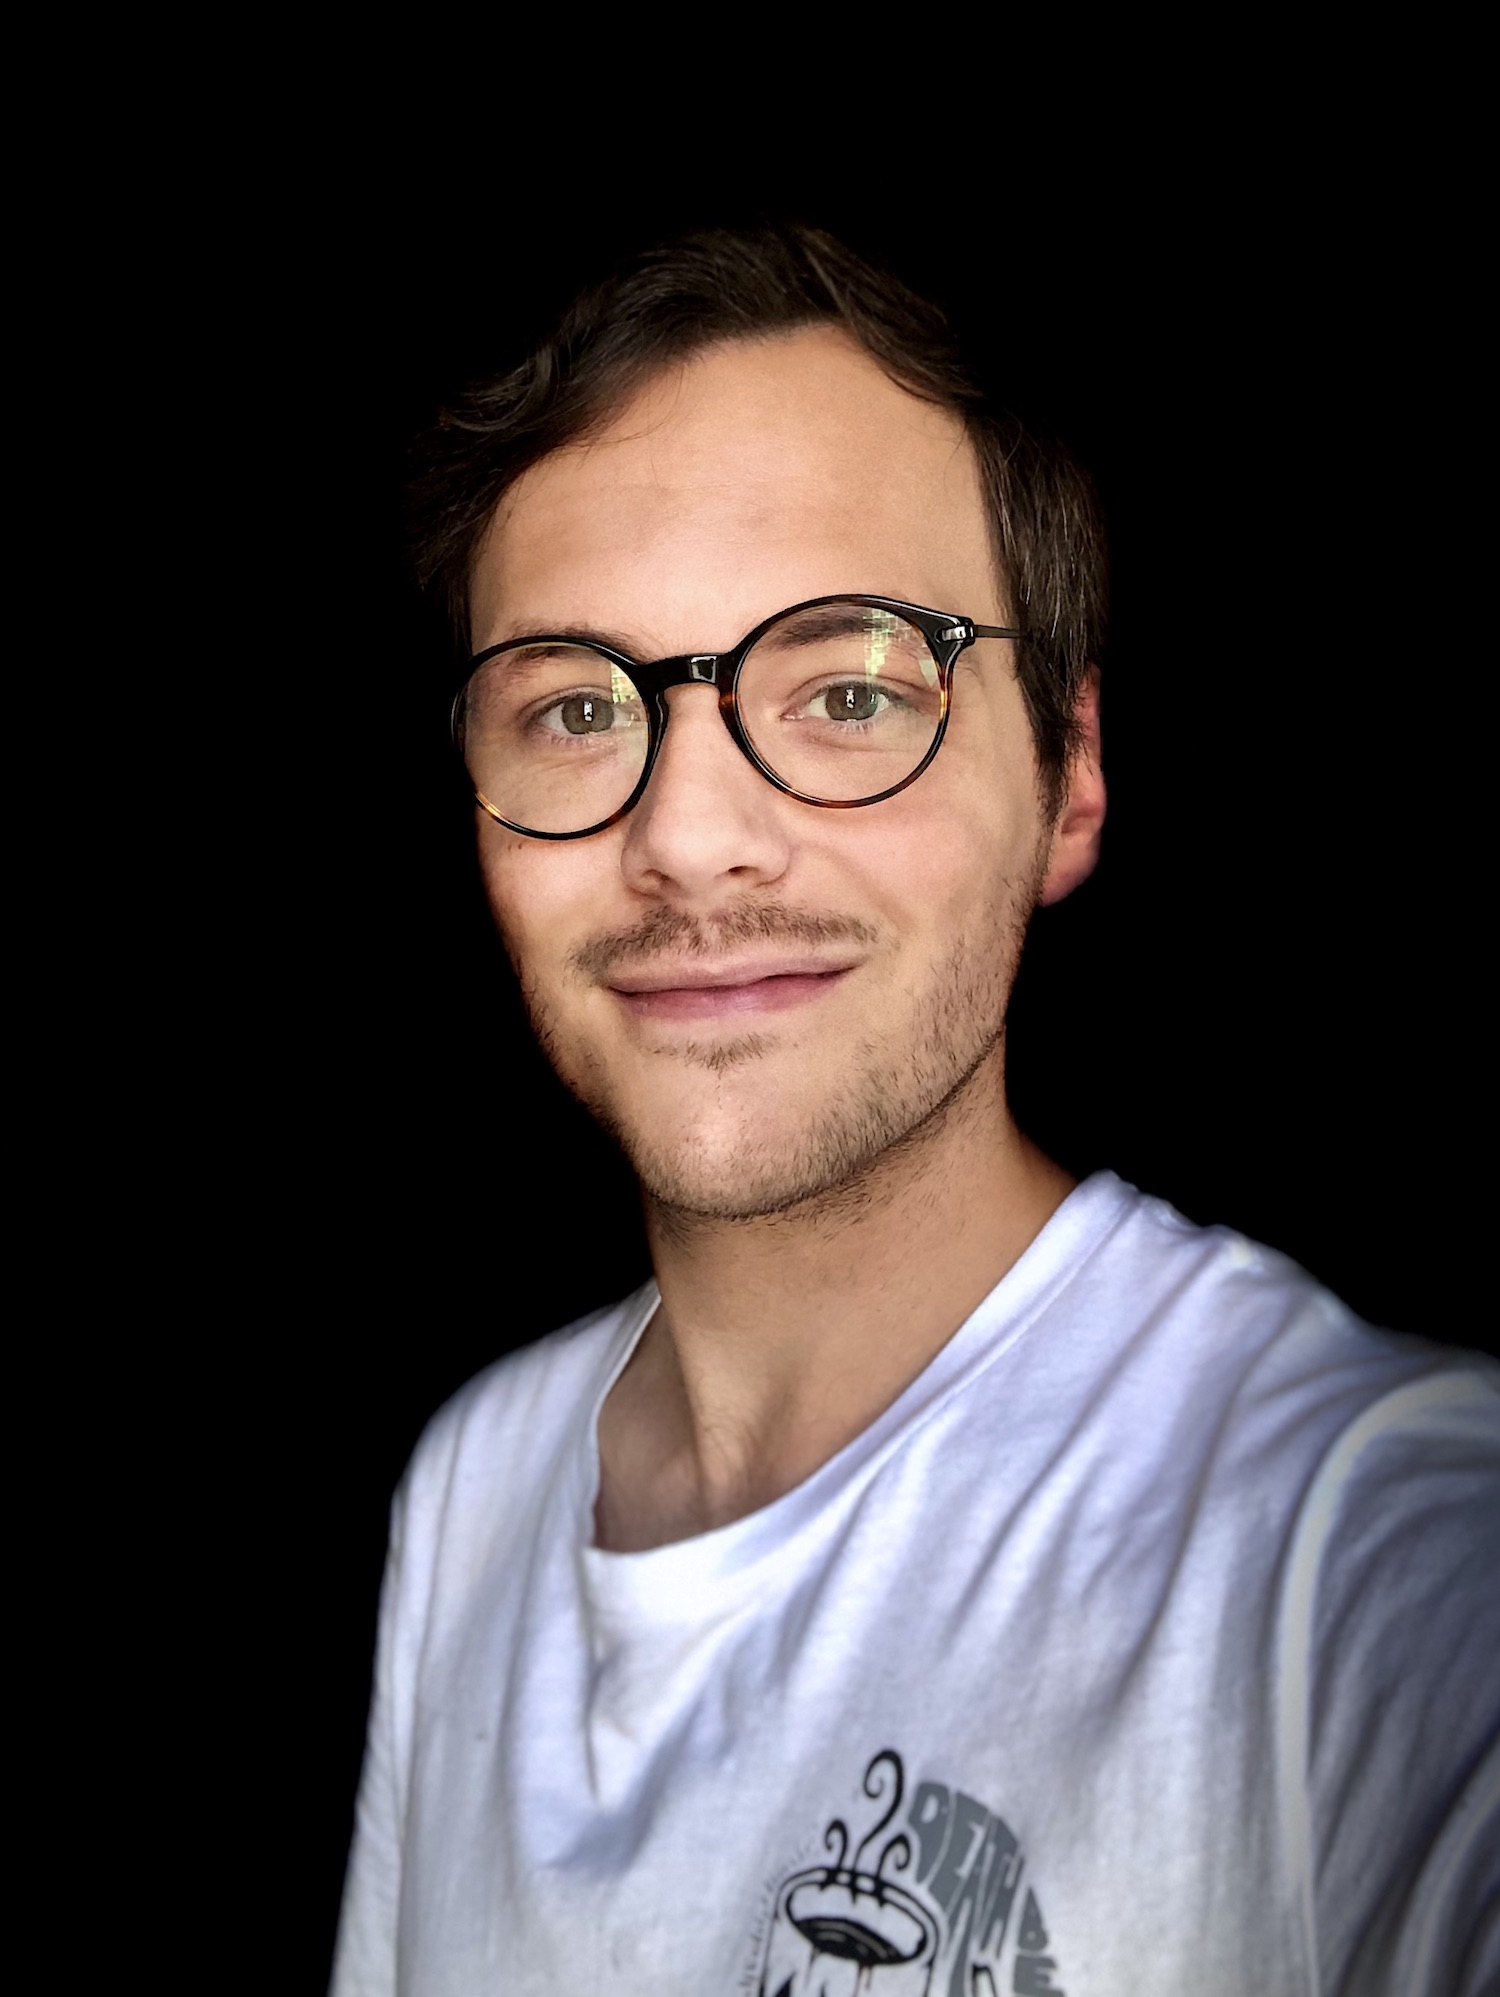
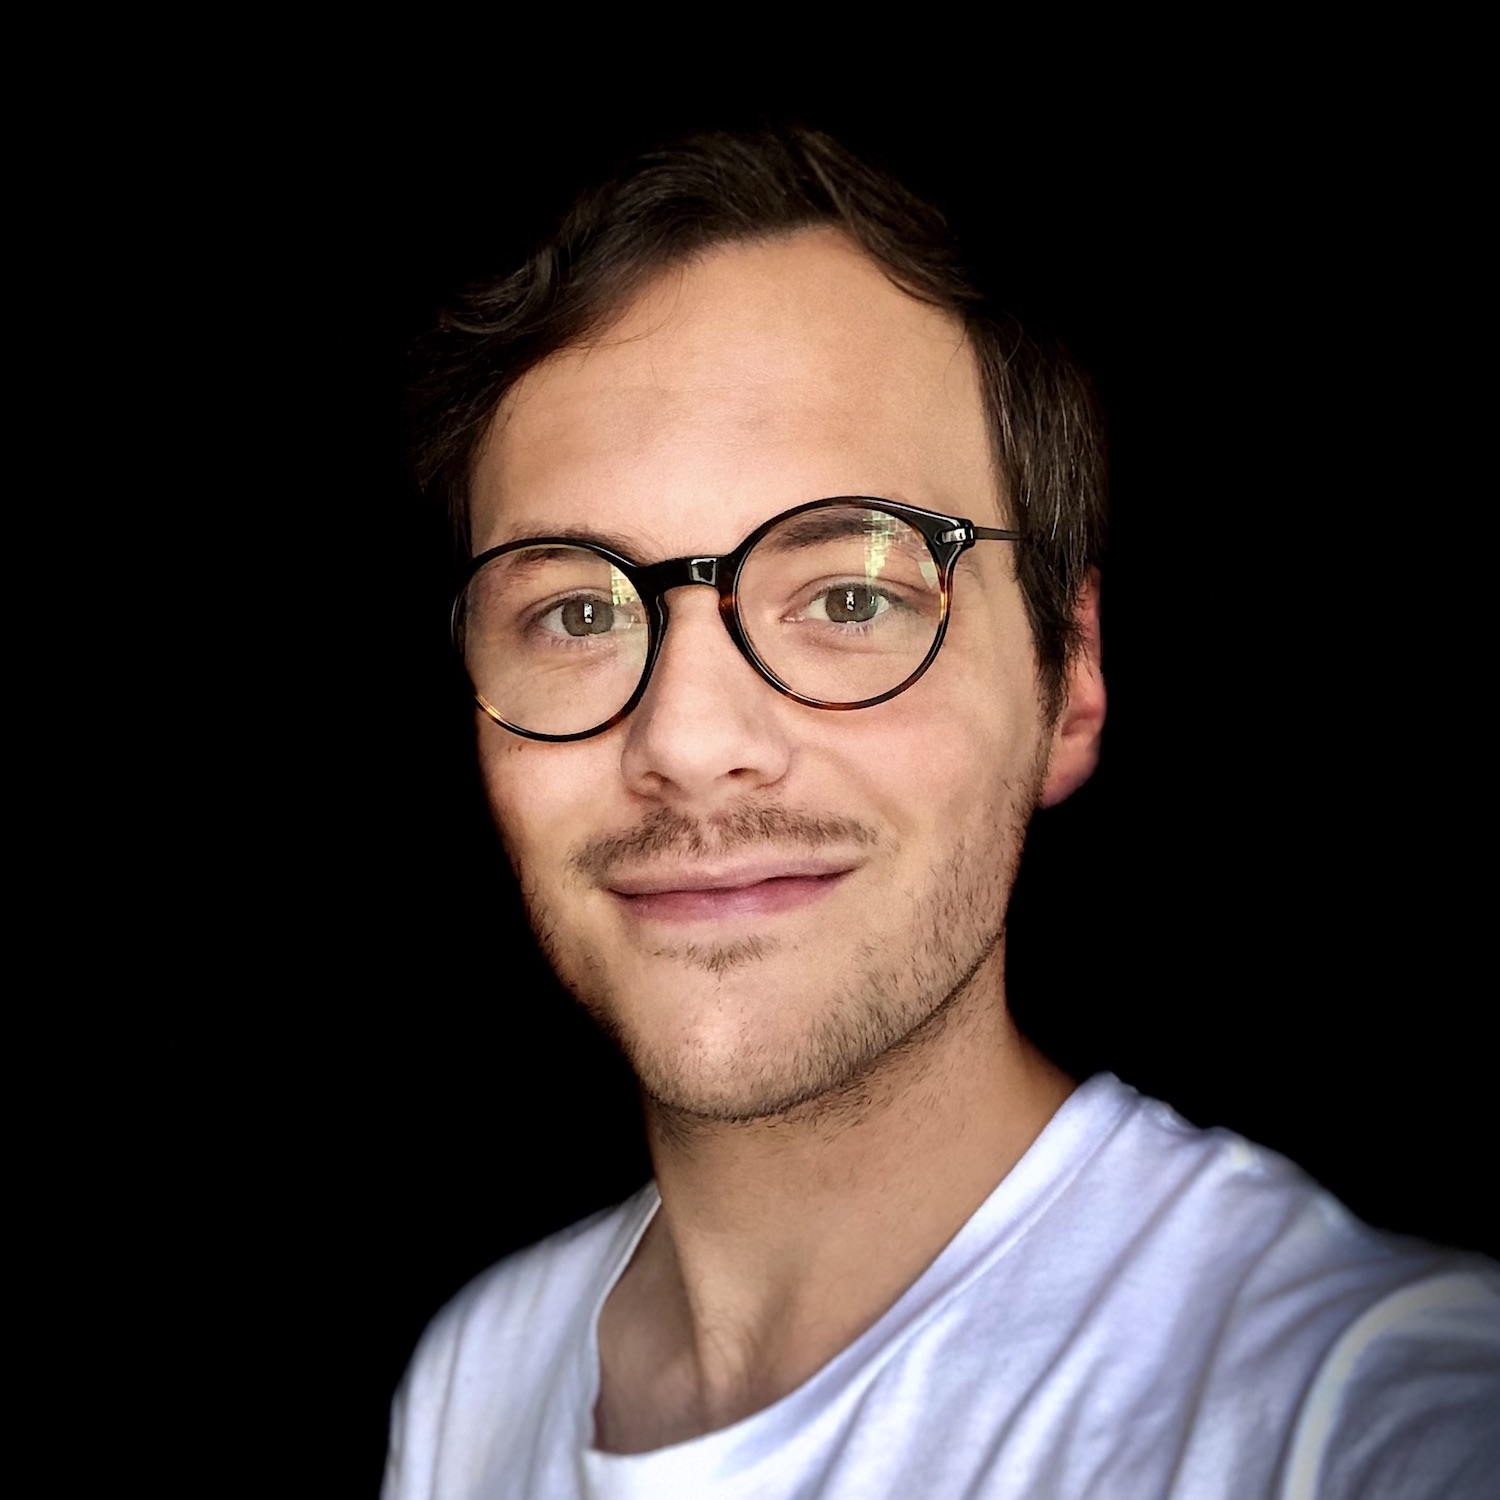
About page

diff --git a/about.html b/about.html
@@ -19,8 +19,8 @@
       <a class="site-name" href="index.html">Richard Picot</a>
 
       <nav class="nav">
-        <a href="#work">Work</a>
-        <a href="#">About</a>
+        <a href="index.html">Work</a>
+        <a href="about.html" style="color:var(--text-primary-color); font-weight:600;">About</a>
         <a href="#contact">Contact</a>
       </nav>
 
@@ -28,40 +28,73 @@
 
     <!-- main content -->
     <div class="main-content">
-      <section class="about-me">
+
+      <div class="about-header">
         <figure>
-          <img src="images/portrait.jpg" alt="Photo of me">
+          <img src="images/portrait.jpg" alt="Photo of me" class="photo-of-me">
         </figure>
+      </div>
 
-        <div>
-          <h2>Hey, nice to meet you.</h2>
-          <p>I was drawn to design through my close involvement of helping people interact with technology whilst working as a trainer at Apple. I saw tech through the eyes of old and new users. I sat with people through highs and lows. I was
-            fortunate
-            enough to spend time working with a number of visually impaired customers and discovered the need for inclusive design first-hand.</p>
-          <p>I approach design with the aim of creating delightful and intuitive experiences through a deep understanding of problems.</p>
-          <p>I love being part of every stage in the process; defining, designing and refining, keeping the person on the other side of the screen in mind every step of the way.</p>
-        </div>
-      </section>
+        <div class="about-me">
+          <div class="about-left-column">
+            <div class="about-intro-text">
 
-        <section>
-          <h2>My values</h2>
-          <p>🔭 <strong>Purpose</strong><br>
-          Working closely with others and feeling supported.</p>
+              <h2>I'm a London-based Product Designer helping startups figure out which problems to solve and the right way to solve them.</h2>
+              <p>Over the last 4+ years I've designed both business and consumer products. I sweat the details at every step of the process — from product strategy to pixels. I love working collaboratively to find simple solutions to real problems that
+                the teams I work in can be proud of.</p>
+              <p>
+                Outside of design you might spot me at a gig (remember those?), stargazing, watching horror movies, or sipping on some fancy-pants coffee.
+              </p>
+          </div>
 
-          <p>🌱 <strong>Growth</strong><br>
-          Constantly seeking new knowledge and reflecting on how to improve.</p>
+          <section>
+            <p><strong>Superpower</strong><br>
+              Asking why and focussing on the details</p>
 
-          <p>🧗♂ <strong>Variety</strong><br>
-          Applying skills to a wide range of problems and tasks.</p>
+            <p><strong>Weakness</strong><br>
+              Doing the same thing day-in-day out</p>
 
-          <p>🤝 <strong>Partnership</strong><br>
-          Applying skills to a wide range of problems and tasks.</p>
+            <p><strong>I want to be better at</strong><br>
+              Web development and coding, writing and communicating ideas earlier</p>
 
-        </section>
+            <p><strong>I don't want to focus on</strong><br>
+              Illustration and creating marketing assets.
+            </p>
+
+            <p><strong>Favourite part of the design process</strong></p>
+            <figure>
+              <img src="images/favourite-part.svg" alt="Design process double diamond" class="design-process">
+            </figure>
+            <p>  I love working the end to end process but my favourite moment is getting that idea into a visual form for the first time.</p>
+          </section>
+          </div>
+
+          <div class="right-column">
+            <h2>Values</h2>
+            <p>🔭 <strong>Purpose</strong><br>
+              Working closely with others and feeling supported.</p>
+
+            <p>🌱 <strong>Growth</strong><br>
+              Constantly seeking new knowledge and reflecting on how to improve.</p>
+
+            <p>🧗♂ <strong>Variety</strong><br>
+              Applying skills to a wide range of problems and tasks.</p>
+
+            <p>🤝 <strong>Partnership</strong><br>
+              Applying skills to a wide range of problems and tasks.</p>
+
+          </div>
+
+      </div>
+
+
+
+
 
 
     </div>
     <!-- end main-content -->
+
 
     <footer id="contact">
       <h1>Get in touch</h1>

diff --git a/css/styles.css b/css/styles.css
@@ -124,7 +124,7 @@ h3 {
 }
 
 p {
-  margin: 0 0 32px 0;
+  margin: 0 0 16px 0;
   font-size: 1em;
   line-height: 1.5;
 }
@@ -219,6 +219,7 @@ a:hover {
 
 .nav a:hover {
   color: var(--primary-color);
+  font-weight: 500;
 }
 
 .project a {
@@ -283,6 +284,13 @@ img, video {
   border: 1px solid rgba(0, 0, 0, 0.08);
 }
 
+.clearfix::after {
+  content: "";
+  display: table;
+  clear: both;
+}
+
+
 /* ------- CASE STUDY LAYOUT STYLES -------- */
 section {
   margin-top: 48px;
@@ -321,6 +329,29 @@ figure, video {
 .callout .icon {
   margin-right: 8px;
 }
+
+/* ------- ABOUT ME LAYOUT STYLES -------- */
+
+.about-header {
+  max-width: 600px;
+  margin-top: 96px;
+}
+.photo-of-me {
+  width: 192px;
+}
+
+.about-me figure {
+  display: block;
+  width: 300px;
+}
+
+.design-process {
+  width: 350px;
+}
+
+.right-column {
+  margin-top: 48px;
+} /* On mobile add a little space between sections */
 
 /* =================================
   #Navigation
@@ -433,11 +464,23 @@ footer .nav {
     margin: auto;
   }
 
-.about-me figure {
-  margin-right: 32px;
-  width: 40%;
-  float: left;
+  /* ABOUT ME */
+.about-header {
+  margin-top: 256px;
 }
+
+  .about-me {
+    display: flex;
+  }
+
+  .about-left-column {
+    margin-right: 64px;
+    width: 1100px;
+  }
+
+  .right-column {
+    margin-top: 0px;
+  } /* On desktop remove the top margin */
 
   /* ------- Styling adjustments -------- */
   .hero {

diff --git a/index.html b/index.html
@@ -19,8 +19,8 @@
       <a class="site-name" href="index.html">Richard Picot</a>
 
       <nav class="nav">
-        <a href="#work">Work</a>
-        <a href="#">About</a>
+        <a href="#work" style="color:var(--text-primary-color); font-weight:600;">Work</a>
+        <a href="about.html">About</a>
         <a href="#contact">Contact</a>
       </nav>
 
@@ -35,9 +35,6 @@
           I've worked at a number of different stage startups, on both business and consumer products. I'm currently working at <a href="https://www.saberr.com" target="_blank">Saberr</a> creating products to help managers lead amazing teams. I sweat the details at every step
           of
           the process — from product strategy to pixels — to creating simple, accessible designs that solve real problems.<br>
-          <p>
-            Outside of design you might spot me at a gig (remember those?), stargazing, or sipping on some fancy-pants coffee.
-          </p>
         </p>
       </section>
 
@@ -124,6 +121,7 @@
         <a href="#">LinkedIn</a>
         <a href="#">Medium</a>
       </nav>
+
     </footer>
 
   </div>
